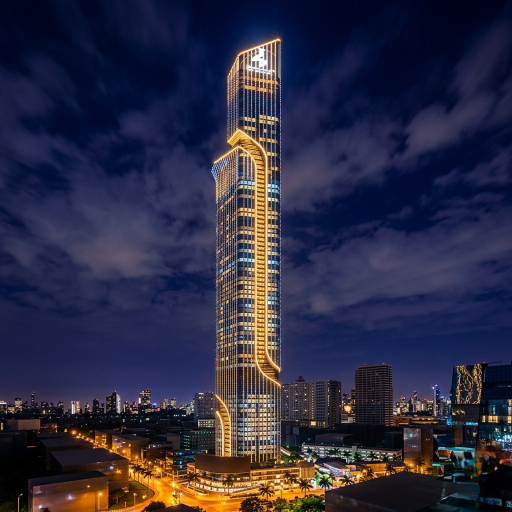
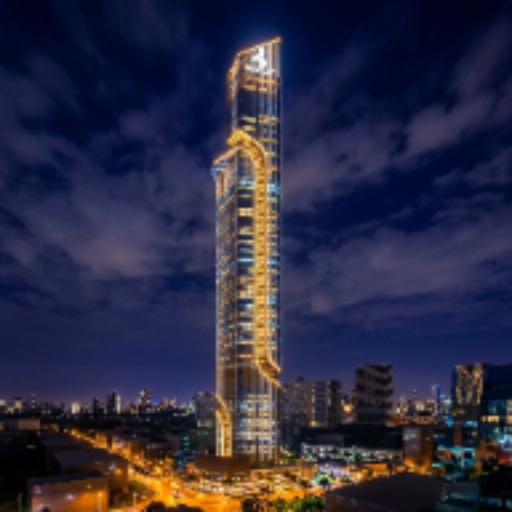
Add files via upload

Changed region(s): [[0.0, 0.0625, 1.0, 1.0], [0.0312, 0.9688, 0.0938, 1.0], [0.9688, 0.9688, 1.0, 1.0]]

diff --git a/sw.js b/sw.js
@@ -1,4 +1,4 @@
-const CACHE_NAME = 'pwa-cache-6334828961782290838687';
+const CACHE_NAME = 'pwa-cache-9865075401782291317806';
 const urlsToCache = [ './', './index.html', './offline.html', './icon-192.png', './icon-512.png', './manifest.json' ];
 
 self.addEventListener('install', event => {
@@ -24,14 +24,27 @@ self.addEventListener('activate', event => {
 });
 
 self.addEventListener('fetch', event => {
-  event.respondWith(
-    caches.match(event.request)
-      .then(response => {
-        return response || fetch(event.request).catch(() => {
-          if (event.request.mode === 'navigate') {
-            return caches.match('./offline.html');
-          }
-        });
-      })
-  );
+  // استراتيجية شبكة أولاً (Network-First) لصفحة التنقل لتعمل التحديثات فوراً عند وجود نت
+  if (event.request.mode === 'navigate') {
+    event.respondWith(
+      fetch(event.request)
+        .then(networkResponse => {
+          return caches.open(CACHE_NAME).then(cache => {
+            cache.put(event.request, networkResponse.clone());
+            return networkResponse;
+          });
+        })
+        .catch(() => {
+          return caches.match(event.request) || caches.match('./index.html') || caches.match('./offline.html');
+        })
+    );
+  } else {
+    // باقي الملفات كاش أولاً لسرعة التصفح وتوفير البيانات
+    event.respondWith(
+      caches.match(event.request)
+        .then(response => {
+          return response || fetch(event.request);
+        })
+    );
+  }
 });

diff --git a/index.html b/index.html
@@ -85,13 +85,17 @@
     </style>
 
     <link rel="manifest" href="./manifest.json">
-    <meta name="theme-color" content="#6b65ab">
+    <meta name="theme-color" content="#342273">
     <link rel="apple-touch-icon" href="./icon-192.png">
     <script>
       if ('serviceWorker' in navigator) {
         window.addEventListener('load', () => {
-          navigator.serviceWorker.register('./sw.js')
-            .then(reg => console.log('SW Registered'))
+          navigator.serviceWorker.register('./sw.js?v=9865075401782291317806')
+            .then(reg => {
+              console.log('SW Registered');
+              // إجبار الـ SW على الفحص المباشر للتحديثات
+              reg.update();
+            })
             .catch(err => console.log('SW Failed', err));
         });
       }

diff --git a/offline.html b/offline.html
@@ -5,9 +5,9 @@
     <meta name="viewport" content="width=device-width, initial-scale=1.0">
     <title>لا يوجد اتصال بالإنترنت</title>
     <style>
-        body { margin: 0; display: flex; flex-direction: column; align-items: center; justify-content: center; height: 100vh; font-family: system-ui, sans-serif; text-align: center; background-color: #6b65ab; color: white; }
+        body { margin: 0; display: flex; flex-direction: column; align-items: center; justify-content: center; height: 100vh; font-family: system-ui, sans-serif; text-align: center; background-color: #342273; color: white; }
         .icon { font-size: 4rem; margin-bottom: 20px; }
-        button { margin-top: 30px; padding: 12px 24px; font-size: 1rem; cursor: pointer; border: none; border-radius: 8px; background-color: white; color: #6b65ab; font-weight: bold; box-shadow: 0 4px 6px rgba(0,0,0,0.1); }
+        button { margin-top: 30px; padding: 12px 24px; font-size: 1rem; cursor: pointer; border: none; border-radius: 8px; background-color: white; color: #342273; font-weight: bold; box-shadow: 0 4px 6px rgba(0,0,0,0.1); }
     </style>
 </head>
 <body>